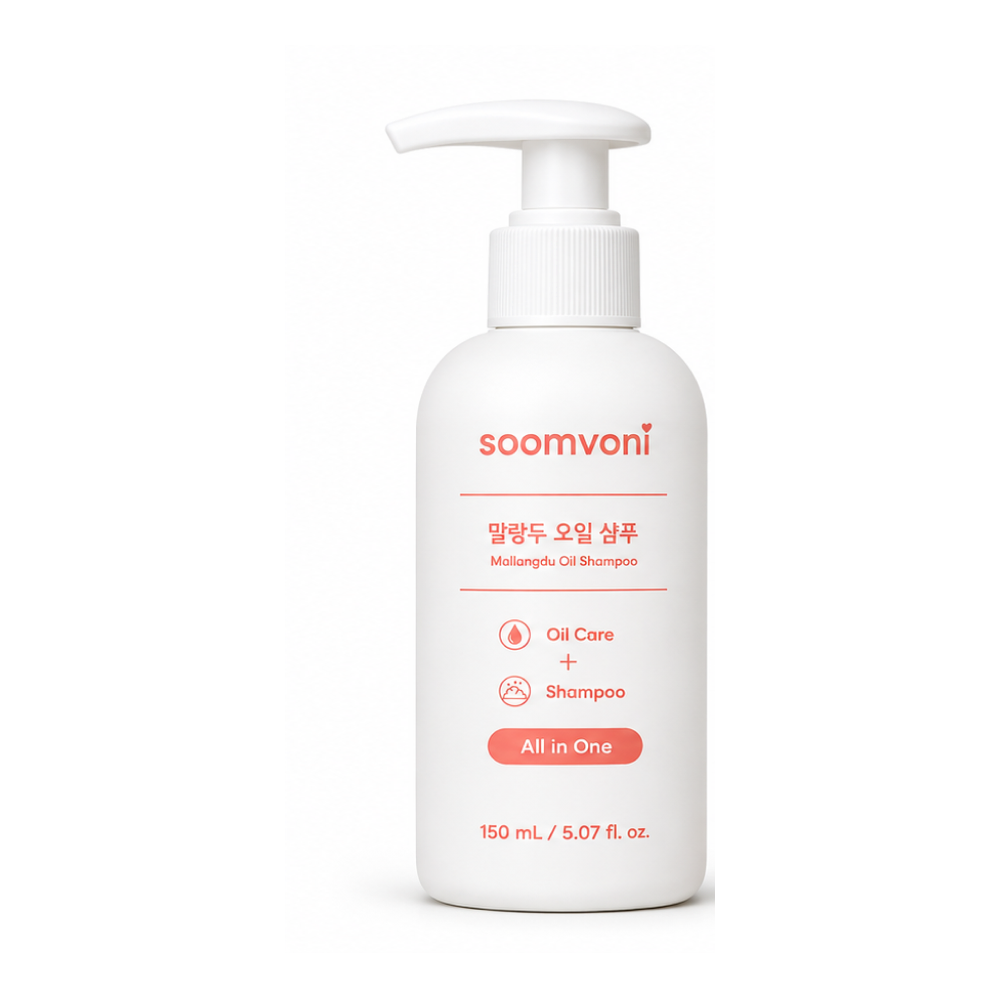
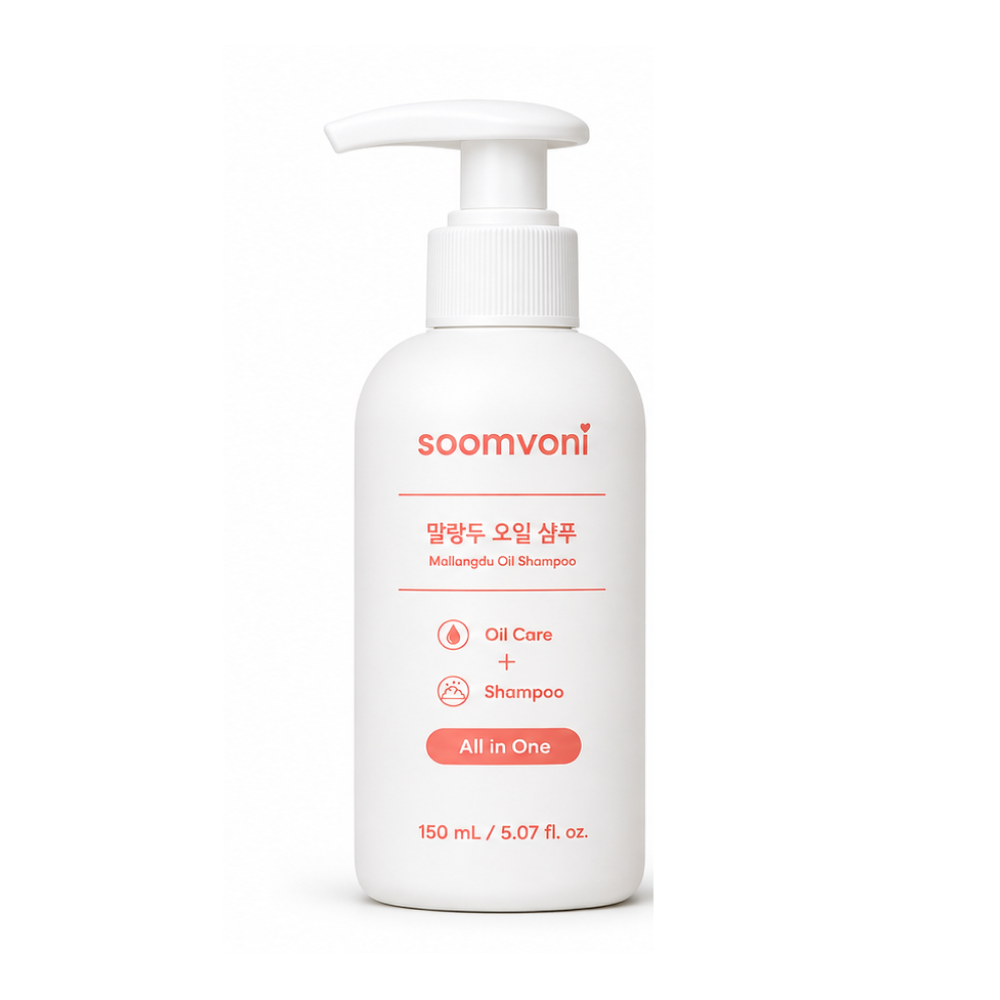
Center representative bottle and match product video widths

diff --git a/resole-lotion-demo/product/soomvoni-mallangdu.html b/resole-lotion-demo/product/soomvoni-mallangdu.html
@@ -22,37 +22,37 @@
 .soomvoni-page .price-line .sale-price{color:#392f29}
 @media(max-width:600px){.thumbnail-grid{grid-template-columns:repeat(2,minmax(0,1fr));gap:12px}.soomvoni-page .detail-tabs{overflow-x:auto;white-space:nowrap}}
 
-.motion-page{position:relative}.ingredient-motion{position:absolute;left:0;top:0;width:100%;height:53.666667%;background:#fcf9f3}.ingredient-motion video{display:block;width:100%;height:100%;object-fit:cover}
+.motion-page{position:relative}.ingredient-motion{position:absolute;left:0;top:0;width:100%;height:53.666667%;background:#fcf9f3;display:flex;align-items:center;padding:0 68px;box-sizing:border-box}.ingredient-motion video{display:block;width:100%;height:auto;aspect-ratio:3/2;object-fit:contain}
 .routine-page{background:#fcf9f3;color:#392f29;padding:65px 68px 50px;line-height:1.6;font-family:'Noto Sans KR',sans-serif}.routine-page .routine-kicker{font-size:17px;letter-spacing:.08em;color:#ed7668;font-weight:700;margin:0 0 45px}.routine-page h2{font-size:48px;line-height:1.5;margin:0 0 38px;letter-spacing:-.04em}.routine-page .routine-intro{font-size:25px;color:#756a62;margin-bottom:55px}.routine-page video{display:block;width:100%;height:auto;aspect-ratio:3/2;background:#fcece5}.routine-steps{display:grid;grid-template-columns:1fr 1fr;gap:40px 25px;margin-top:60px}.routine-steps strong{display:block;font-size:24px;margin-bottom:12px}.routine-steps b{color:#ed7668;font-size:18px;display:block;margin-bottom:10px}.routine-steps p{font-size:21px;line-height:1.8;color:#756a62;margin:0}.routine-note{font-size:17px;color:#756a62;margin-top:55px}.soomvoni-page .detail-tabs{display:flex}.soomvoni-page .detail-tabs a{flex:1;min-width:max-content}
-@media(max-width:600px){.routine-page{padding:40px 24px 30px}.routine-page .routine-kicker{font-size:11px;margin-bottom:24px}.routine-page h2{font-size:26px;margin-bottom:22px}.routine-page .routine-intro{font-size:15px;margin-bottom:30px}.routine-steps{gap:25px 16px;margin-top:30px}.routine-steps strong{font-size:16px;line-height:1.5}.routine-steps b{font-size:13px}.routine-steps p{font-size:13px;line-height:1.8}.routine-note{font-size:12px;margin-top:30px}}
+@media(max-width:600px){.ingredient-motion{padding:0 24px}.routine-page{padding:40px 24px 30px}.routine-page .routine-kicker{font-size:11px;margin-bottom:24px}.routine-page h2{font-size:26px;margin-bottom:22px}.routine-page .routine-intro{font-size:15px;margin-bottom:30px}.routine-steps{gap:25px 16px;margin-top:30px}.routine-steps strong{font-size:16px;line-height:1.5}.routine-steps b{font-size:13px}.routine-steps p{font-size:13px;line-height:1.8}.routine-note{font-size:12px;margin-top:30px}}
 
 </style></head><body class="product-page soomvoni-page">
 <div class="notice-bar">RESOLE DESIGN · PORTFOLIO</div>
 <header class="store-header"><div class="store-shell header-row"><a class="store-logo" href="../">RESOLE</a><nav class="store-nav" aria-label="주요 메뉴"><a href="../#new">NEW</a><a href="../#all">ALL</a><a href="../#about">ABOUT</a></nav></div></header>
 <main><div class="breadcrumb store-shell"><a href="../">HOME</a><span>/</span><span>숨보니 말랑두 오일 샴푸</span></div>
-<section class="product store-shell"><div class="gallery-panel"><div class="gallery-main"><img id="mainImage" src="../assets/soomvoni-mallangdu/shop/t01.png?v=20261126-soomvoni-r4" alt="숨보니 말랑두 오일 샴푸 150 mL" width="1000" height="1000"></div><div class="thumb-strip" id="thumbStrip" aria-label="제품 이미지 선택"><button class="thumb active" type="button" data-image="../assets/soomvoni-mallangdu/shop/t01.png?v=20261126-soomvoni-r4" aria-label="숨보니 썸네일 1 보기"><img src="../assets/soomvoni-mallangdu/shop/t01.png?v=20261126-soomvoni-r4" alt="숨보니 썸네일 1" width="1000" height="1000"></button>
-<button class="thumb " type="button" data-image="../assets/soomvoni-mallangdu/shop/t02.png?v=20261126-soomvoni-r4" aria-label="숨보니 썸네일 2 보기"><img src="../assets/soomvoni-mallangdu/shop/t02.png?v=20261126-soomvoni-r4" alt="숨보니 썸네일 2" width="1000" height="1000"></button>
-<button class="thumb " type="button" data-image="../assets/soomvoni-mallangdu/shop/t03.png?v=20261126-soomvoni-r4" aria-label="숨보니 썸네일 3 보기"><img src="../assets/soomvoni-mallangdu/shop/t03.png?v=20261126-soomvoni-r4" alt="숨보니 썸네일 3" width="1000" height="1000"></button>
-<button class="thumb " type="button" data-image="../assets/soomvoni-mallangdu/shop/t04.png?v=20261126-soomvoni-r4" aria-label="숨보니 썸네일 4 보기"><img src="../assets/soomvoni-mallangdu/shop/t04.png?v=20261126-soomvoni-r4" alt="숨보니 썸네일 4" width="1000" height="1000"></button>
-<button class="thumb " type="button" data-image="../assets/soomvoni-mallangdu/shop/t05.png?v=20261126-soomvoni-r4" aria-label="숨보니 썸네일 5 보기"><img src="../assets/soomvoni-mallangdu/shop/t05.png?v=20261126-soomvoni-r4" alt="숨보니 썸네일 5" width="1000" height="1000"></button>
-<button class="thumb " type="button" data-image="../assets/soomvoni-mallangdu/shop/t06.png?v=20261126-soomvoni-r4" aria-label="숨보니 썸네일 6 보기"><img src="../assets/soomvoni-mallangdu/shop/t06.png?v=20261126-soomvoni-r4" alt="숨보니 썸네일 6" width="1000" height="1000"></button></div></div>
+<section class="product store-shell"><div class="gallery-panel"><div class="gallery-main"><img id="mainImage" src="../assets/soomvoni-mallangdu/shop/t01.png?v=20261126-soomvoni-r5" alt="숨보니 말랑두 오일 샴푸 150 mL" width="1000" height="1000"></div><div class="thumb-strip" id="thumbStrip" aria-label="제품 이미지 선택"><button class="thumb active" type="button" data-image="../assets/soomvoni-mallangdu/shop/t01.png?v=20261126-soomvoni-r5" aria-label="숨보니 썸네일 1 보기"><img src="../assets/soomvoni-mallangdu/shop/t01.png?v=20261126-soomvoni-r5" alt="숨보니 썸네일 1" width="1000" height="1000"></button>
+<button class="thumb " type="button" data-image="../assets/soomvoni-mallangdu/shop/t02.png?v=20261126-soomvoni-r5" aria-label="숨보니 썸네일 2 보기"><img src="../assets/soomvoni-mallangdu/shop/t02.png?v=20261126-soomvoni-r5" alt="숨보니 썸네일 2" width="1000" height="1000"></button>
+<button class="thumb " type="button" data-image="../assets/soomvoni-mallangdu/shop/t03.png?v=20261126-soomvoni-r5" aria-label="숨보니 썸네일 3 보기"><img src="../assets/soomvoni-mallangdu/shop/t03.png?v=20261126-soomvoni-r5" alt="숨보니 썸네일 3" width="1000" height="1000"></button>
+<button class="thumb " type="button" data-image="../assets/soomvoni-mallangdu/shop/t04.png?v=20261126-soomvoni-r5" aria-label="숨보니 썸네일 4 보기"><img src="../assets/soomvoni-mallangdu/shop/t04.png?v=20261126-soomvoni-r5" alt="숨보니 썸네일 4" width="1000" height="1000"></button>
+<button class="thumb " type="button" data-image="../assets/soomvoni-mallangdu/shop/t05.png?v=20261126-soomvoni-r5" aria-label="숨보니 썸네일 5 보기"><img src="../assets/soomvoni-mallangdu/shop/t05.png?v=20261126-soomvoni-r5" alt="숨보니 썸네일 5" width="1000" height="1000"></button>
+<button class="thumb " type="button" data-image="../assets/soomvoni-mallangdu/shop/t06.png?v=20261126-soomvoni-r5" aria-label="숨보니 썸네일 6 보기"><img src="../assets/soomvoni-mallangdu/shop/t06.png?v=20261126-soomvoni-r5" alt="숨보니 썸네일 6" width="1000" height="1000"></button></div></div>
 <aside class="purchase-panel"><p class="eyebrow">soomvoni · MALLANGDU</p><h1>말랑두 오일 샴푸 150 mL</h1><p class="sub-title">오일 케어와 샴푸 세정을 한 병으로.</p><div class="price-box"><div class="price-line"><strong class="sale-price">29,800원</strong></div></div><div class="shipping-info"><strong>배송비</strong><span>별도</span></div><ul class="key-points"><li>오일 케어 + 샴푸 올인원</li><li>신생아·유아 두피 및 모발 세정</li><li>150 mL / 5.07 fl. oz.</li></ul><div class="action-row"><a class="btn btn-light" href="#thumbnails">썸네일 보기</a><a class="btn btn-primary" href="#detail">상세페이지 보기</a></div></aside></section>
 <nav class="detail-tabs store-shell" aria-label="프로젝트 구성"><a class="active" href="#detail">상세페이지</a><a href="#thumbnails">썸네일 6종</a><a href="#routine-video">사용 영상</a><a href="#info">프로젝트 정보</a></nav>
-<section id="detail" class="detail"><div class="detail-stack"><img class="detail-image" src="../assets/soomvoni-mallangdu/detail/p01.png?v=20261126-soomvoni-r4" alt="숨보니 P01 · 오일 케어와 샴푸를 한 병으로" width="850" height="1500" loading="lazy" decoding="async" data-page="P01">
-<img class="detail-image" src="../assets/soomvoni-mallangdu/detail/p02.png?v=20261126-soomvoni-r4" alt="숨보니 P02 · 부모님의 두피 관리 고민" width="850" height="1500" loading="lazy" decoding="async" data-page="P02">
-<img class="detail-image" src="../assets/soomvoni-mallangdu/detail/p03.png?v=20261126-soomvoni-r4" alt="숨보니 P03 · 올인원 솔루션" width="850" height="1500" loading="lazy" decoding="async" data-page="P03">
-<img class="detail-image" src="../assets/soomvoni-mallangdu/detail/p04.png?v=20261126-soomvoni-r4" alt="숨보니 P04 · 말랑두를 선택하는 다섯 가지 기준" width="850" height="1500" loading="lazy" decoding="async" data-page="P04">
-<img class="detail-image" src="../assets/soomvoni-mallangdu/detail/p05.png?v=20261126-soomvoni-r4" alt="숨보니 P05 · 두피 저자극 테스트 결과" width="850" height="1500" loading="lazy" decoding="async" data-page="P05">
-<div class="motion-page" data-page="P06"><img class="detail-image" src="../assets/soomvoni-mallangdu/detail/p06.png?v=20261126-soomvoni-r4" alt="숨보니 P06 · 코코넛 유래 세정 성분" width="850" height="1500" loading="lazy" decoding="async"><div class="ingredient-motion"><video id="ingredient-video" autoplay loop muted playsinline controls preload="metadata" poster="../assets/soomvoni-mallangdu/video/01_ingredient_film_poster.jpg" aria-label="코코넛 유래 세정 성분 및 펌핑 AI 연출 영상"><source src="../assets/soomvoni-mallangdu/video/01_ingredient_film.mp4?v=20261126-soomvoni-r4" type="video/mp4"></video></div></div>
-<img class="detail-image" src="../assets/soomvoni-mallangdu/detail/p07.png?v=20261126-soomvoni-r4" alt="숨보니 P07 · 티트리잎수·판테놀·녹차추출물" width="850" height="1500" loading="lazy" decoding="async" data-page="P07">
-<img class="detail-image" src="../assets/soomvoni-mallangdu/detail/p08.png?v=20261126-soomvoni-r4" alt="숨보니 P08 · 슬로우 제조기법" width="850" height="1500" loading="lazy" decoding="async" data-page="P08">
-<section class="routine-page" data-page="P09" id="routine-video"><p class="routine-kicker">HOW TO USE</p><h2>따로 불리는 준비 없이,<br>샴푸하는 순서 그대로.</h2><p class="routine-intro">오일 케어와 세정을 하나의 루틴으로.</p><video autoplay loop muted playsinline controls preload="metadata" poster="../assets/soomvoni-mallangdu/video/02_routine_film_poster.jpg" aria-label="펌핑 마사지 목욕 의자와 샴푸캡으로 헹구기 AI 연출 사용 과정"><source src="../assets/soomvoni-mallangdu/video/02_routine_film.mp4?v=20261126-soomvoni-r4" type="video/mp4"></video><div class="routine-steps"><div><b>01</b><strong>충분히 적셔주세요</strong><p>미온수로 두피와 모발을<br>충분히 적셔주세요.</p></div><div><b>02</b><strong>적당량을 덜어주세요</strong><p>샴푸를 적당량 덜어<br>두피와 모발에 발라주세요.</p></div><div><b>03</b><strong>부드럽게 마사지</strong><p>손끝으로 부드럽게 문질러<br>거품을 내주세요.</p></div><div><b>04</b><strong>깨끗하게 헹궈주세요</strong><p>미온수로 거품이 남지 않게<br>충분히 헹궈주세요.</p></div></div><p class="routine-note">두피 각질을 손이나 손톱으로 억지로 떼어내지 마세요.<br>AI 연출 영상으로 실제 제형·거품량·사용 결과와 다를 수 있습니다.</p></section>
-<img class="detail-image" src="../assets/soomvoni-mallangdu/detail/p10.png?v=20261126-soomvoni-r4" alt="숨보니 P10 · 제품 정보·전성분·사용 시 주의사항" width="850" height="3000" loading="lazy" decoding="async" data-page="P10"></div></section>
-<section id="thumbnails" class="info-section store-shell"><h2>썸네일 디자인</h2><div class="thumbnail-grid"><figure><a href="../assets/soomvoni-mallangdu/shop/t01.png?v=20261126-soomvoni-r4" target="_blank" rel="noopener"><img src="../assets/soomvoni-mallangdu/shop/t01.png?v=20261126-soomvoni-r4" alt="숨보니 이미지형 썸네일 1" width="1000" height="1000" loading="lazy"></a><figcaption>01 · 이미지형</figcaption></figure>
-<figure><a href="../assets/soomvoni-mallangdu/shop/t02.png?v=20261126-soomvoni-r4" target="_blank" rel="noopener"><img src="../assets/soomvoni-mallangdu/shop/t02.png?v=20261126-soomvoni-r4" alt="숨보니 이미지형 썸네일 2" width="1000" height="1000" loading="lazy"></a><figcaption>02 · 이미지형</figcaption></figure>
-<figure><a href="../assets/soomvoni-mallangdu/shop/t03.png?v=20261126-soomvoni-r4" target="_blank" rel="noopener"><img src="../assets/soomvoni-mallangdu/shop/t03.png?v=20261126-soomvoni-r4" alt="숨보니 이미지형 썸네일 3" width="1000" height="1000" loading="lazy"></a><figcaption>03 · 이미지형</figcaption></figure>
-<figure><a href="../assets/soomvoni-mallangdu/shop/t04.png?v=20261126-soomvoni-r4" target="_blank" rel="noopener"><img src="../assets/soomvoni-mallangdu/shop/t04.png?v=20261126-soomvoni-r4" alt="숨보니 카피형 썸네일 4" width="1000" height="1000" loading="lazy"></a><figcaption>04 · 카피형</figcaption></figure>
-<figure><a href="../assets/soomvoni-mallangdu/shop/t05.png?v=20261126-soomvoni-r4" target="_blank" rel="noopener"><img src="../assets/soomvoni-mallangdu/shop/t05.png?v=20261126-soomvoni-r4" alt="숨보니 카피형 썸네일 5" width="1000" height="1000" loading="lazy"></a><figcaption>05 · 카피형</figcaption></figure>
-<figure><a href="../assets/soomvoni-mallangdu/shop/t06.png?v=20261126-soomvoni-r4" target="_blank" rel="noopener"><img src="../assets/soomvoni-mallangdu/shop/t06.png?v=20261126-soomvoni-r4" alt="숨보니 카피형 썸네일 6" width="1000" height="1000" loading="lazy"></a><figcaption>06 · 카피형</figcaption></figure></div></section>
+<section id="detail" class="detail"><div class="detail-stack"><img class="detail-image" src="../assets/soomvoni-mallangdu/detail/p01.png?v=20261126-soomvoni-r5" alt="숨보니 P01 · 오일 케어와 샴푸를 한 병으로" width="850" height="1500" loading="lazy" decoding="async" data-page="P01">
+<img class="detail-image" src="../assets/soomvoni-mallangdu/detail/p02.png?v=20261126-soomvoni-r5" alt="숨보니 P02 · 부모님의 두피 관리 고민" width="850" height="1500" loading="lazy" decoding="async" data-page="P02">
+<img class="detail-image" src="../assets/soomvoni-mallangdu/detail/p03.png?v=20261126-soomvoni-r5" alt="숨보니 P03 · 올인원 솔루션" width="850" height="1500" loading="lazy" decoding="async" data-page="P03">
+<img class="detail-image" src="../assets/soomvoni-mallangdu/detail/p04.png?v=20261126-soomvoni-r5" alt="숨보니 P04 · 말랑두를 선택하는 다섯 가지 기준" width="850" height="1500" loading="lazy" decoding="async" data-page="P04">
+<img class="detail-image" src="../assets/soomvoni-mallangdu/detail/p05.png?v=20261126-soomvoni-r5" alt="숨보니 P05 · 두피 저자극 테스트 결과" width="850" height="1500" loading="lazy" decoding="async" data-page="P05">
+<div class="motion-page" data-page="P06"><img class="detail-image" src="../assets/soomvoni-mallangdu/detail/p06.png?v=20261126-soomvoni-r5" alt="숨보니 P06 · 코코넛 유래 세정 성분" width="850" height="1500" loading="lazy" decoding="async"><div class="ingredient-motion"><video id="ingredient-video" autoplay loop muted playsinline controls preload="metadata" poster="../assets/soomvoni-mallangdu/video/01_ingredient_film_poster.jpg" aria-label="코코넛 유래 세정 성분 및 펌핑 AI 연출 영상"><source src="../assets/soomvoni-mallangdu/video/01_ingredient_film.mp4?v=20261126-soomvoni-r5" type="video/mp4"></video></div></div>
+<img class="detail-image" src="../assets/soomvoni-mallangdu/detail/p07.png?v=20261126-soomvoni-r5" alt="숨보니 P07 · 티트리잎수·판테놀·녹차추출물" width="850" height="1500" loading="lazy" decoding="async" data-page="P07">
+<img class="detail-image" src="../assets/soomvoni-mallangdu/detail/p08.png?v=20261126-soomvoni-r5" alt="숨보니 P08 · 슬로우 제조기법" width="850" height="1500" loading="lazy" decoding="async" data-page="P08">
+<section class="routine-page" data-page="P09" id="routine-video"><p class="routine-kicker">HOW TO USE</p><h2>따로 불리는 준비 없이,<br>샴푸하는 순서 그대로.</h2><p class="routine-intro">오일 케어와 세정을 하나의 루틴으로.</p><video autoplay loop muted playsinline controls preload="metadata" poster="../assets/soomvoni-mallangdu/video/02_routine_film_poster.jpg" aria-label="펌핑 마사지 목욕 의자와 샴푸캡으로 헹구기 AI 연출 사용 과정"><source src="../assets/soomvoni-mallangdu/video/02_routine_film.mp4?v=20261126-soomvoni-r5" type="video/mp4"></video><div class="routine-steps"><div><b>01</b><strong>충분히 적셔주세요</strong><p>미온수로 두피와 모발을<br>충분히 적셔주세요.</p></div><div><b>02</b><strong>적당량을 덜어주세요</strong><p>샴푸를 적당량 덜어<br>두피와 모발에 발라주세요.</p></div><div><b>03</b><strong>부드럽게 마사지</strong><p>손끝으로 부드럽게 문질러<br>거품을 내주세요.</p></div><div><b>04</b><strong>깨끗하게 헹궈주세요</strong><p>미온수로 거품이 남지 않게<br>충분히 헹궈주세요.</p></div></div><p class="routine-note">두피 각질을 손이나 손톱으로 억지로 떼어내지 마세요.<br>AI 연출 영상으로 실제 제형·거품량·사용 결과와 다를 수 있습니다.</p></section>
+<img class="detail-image" src="../assets/soomvoni-mallangdu/detail/p10.png?v=20261126-soomvoni-r5" alt="숨보니 P10 · 제품 정보·전성분·사용 시 주의사항" width="850" height="3000" loading="lazy" decoding="async" data-page="P10"></div></section>
+<section id="thumbnails" class="info-section store-shell"><h2>썸네일 디자인</h2><div class="thumbnail-grid"><figure><a href="../assets/soomvoni-mallangdu/shop/t01.png?v=20261126-soomvoni-r5" target="_blank" rel="noopener"><img src="../assets/soomvoni-mallangdu/shop/t01.png?v=20261126-soomvoni-r5" alt="숨보니 이미지형 썸네일 1" width="1000" height="1000" loading="lazy"></a><figcaption>01 · 이미지형</figcaption></figure>
+<figure><a href="../assets/soomvoni-mallangdu/shop/t02.png?v=20261126-soomvoni-r5" target="_blank" rel="noopener"><img src="../assets/soomvoni-mallangdu/shop/t02.png?v=20261126-soomvoni-r5" alt="숨보니 이미지형 썸네일 2" width="1000" height="1000" loading="lazy"></a><figcaption>02 · 이미지형</figcaption></figure>
+<figure><a href="../assets/soomvoni-mallangdu/shop/t03.png?v=20261126-soomvoni-r5" target="_blank" rel="noopener"><img src="../assets/soomvoni-mallangdu/shop/t03.png?v=20261126-soomvoni-r5" alt="숨보니 이미지형 썸네일 3" width="1000" height="1000" loading="lazy"></a><figcaption>03 · 이미지형</figcaption></figure>
+<figure><a href="../assets/soomvoni-mallangdu/shop/t04.png?v=20261126-soomvoni-r5" target="_blank" rel="noopener"><img src="../assets/soomvoni-mallangdu/shop/t04.png?v=20261126-soomvoni-r5" alt="숨보니 카피형 썸네일 4" width="1000" height="1000" loading="lazy"></a><figcaption>04 · 카피형</figcaption></figure>
+<figure><a href="../assets/soomvoni-mallangdu/shop/t05.png?v=20261126-soomvoni-r5" target="_blank" rel="noopener"><img src="../assets/soomvoni-mallangdu/shop/t05.png?v=20261126-soomvoni-r5" alt="숨보니 카피형 썸네일 5" width="1000" height="1000" loading="lazy"></a><figcaption>05 · 카피형</figcaption></figure>
+<figure><a href="../assets/soomvoni-mallangdu/shop/t06.png?v=20261126-soomvoni-r5" target="_blank" rel="noopener"><img src="../assets/soomvoni-mallangdu/shop/t06.png?v=20261126-soomvoni-r5" alt="숨보니 카피형 썸네일 6" width="1000" height="1000" loading="lazy"></a><figcaption>06 · 카피형</figcaption></figure></div></section>
 <section id="info" class="info-section store-shell detail-narrow"><h2>프로젝트 정보</h2><div class="info-grid"><div><span>브랜드</span><strong>숨보니 · soomvoni</strong></div><div><span>제품명</span><strong>말랑두 오일 샴푸</strong></div><div><span>제작 범위</span><strong>상세페이지 10P · 영상 2종 · 썸네일 6종</strong></div></div><p>영상이 포함된 상세페이지 1차 시안이며 실제 결제는 제공되지 않습니다.</p></section>
 </main><footer class="store-footer"><div class="store-shell"><strong>RESOLE DESIGN</strong><p>Cosmetics · Package · Detail Page Design</p></div></footer></body></html>

diff --git a/resole-lotion-demo/index.html b/resole-lotion-demo/index.html
@@ -53,7 +53,7 @@
     <section id="new" class="store-section store-shell">
       <div class="store-section-head"><div><p class="section-kicker">NEW ARRIVAL</p><h2>새롭게 만나는 RESOLE</h2></div><a href="#all">전체보기 <span>→</span></a></div>
       <div class="product-rail" aria-label="신상품 목록">
-<article class="product-card"><a href="product/soomvoni-mallangdu.html?v=20261126-soomvoni-r4" class="product-image-wrap"><span class="card-badge mist">NEW</span><img src="assets/soomvoni-mallangdu/shop/t01.png?v=20261126-soomvoni-r4" alt="숨보니 말랑두 오일 샴푸 150 mL"></a><div class="product-card-body"><p class="product-brand">soomvoni</p><a href="product/soomvoni-mallangdu.html?v=20261126-soomvoni-r4" class="product-name">말랑두 오일 샴푸 150 mL</a><div class="product-price"><strong>29,800원</strong></div><p class="product-meta">오일 케어와 샴푸를 한 병으로</p></div></article>
+<article class="product-card"><a href="product/soomvoni-mallangdu.html?v=20261126-soomvoni-r5" class="product-image-wrap"><span class="card-badge mist">NEW</span><img src="assets/soomvoni-mallangdu/shop/t01.png?v=20261126-soomvoni-r5" alt="숨보니 말랑두 오일 샴푸 150 mL"></a><div class="product-card-body"><p class="product-brand">soomvoni</p><a href="product/soomvoni-mallangdu.html?v=20261126-soomvoni-r5" class="product-name">말랑두 오일 샴푸 150 mL</a><div class="product-price"><strong>29,800원</strong></div><p class="product-meta">오일 케어와 샴푸를 한 병으로</p></div></article>
         <article class="product-card">
           <a href="product/ecrive-barrier-lotion.html?v=20261022-r2" class="product-image-wrap"><span class="card-badge mist">NEW</span><img src="assets/ecrive-barrier-lotion/shop/01-copy-launch.jpg?v=20260928-r1" alt="ECRIVE 베리어 로션 300 mL" /></a>
           <div class="product-card-body"><p class="product-brand">ECRIVE</p><a href="product/ecrive-barrier-lotion.html?v=20261022-r2" class="product-name">베리어 로션 300 mL</a><div class="product-price"><strong>34,900원</strong><del>39,000원</del></div><p class="product-meta">바르고 또 발라도, 반복되는 건조함을 위한 보습</p></div>
@@ -87,7 +87,7 @@
     <section id="all" class="store-section store-shell compact-bottom">
       <div class="store-section-head"><div><p class="section-kicker">ALL PRODUCTS</p><h2>전체 상품</h2></div></div>
       <div class="all-product-grid">
-<article class="product-card"><a href="product/soomvoni-mallangdu.html?v=20261126-soomvoni-r4" class="product-image-wrap"><span class="card-badge mist">NEW</span><img src="assets/soomvoni-mallangdu/shop/t01.png?v=20261126-soomvoni-r4" alt="숨보니 말랑두 오일 샴푸 150 mL"></a><div class="product-card-body"><p class="product-brand">soomvoni</p><a href="product/soomvoni-mallangdu.html?v=20261126-soomvoni-r4" class="product-name">말랑두 오일 샴푸 150 mL</a><div class="product-price"><strong>29,800원</strong></div><p class="product-meta">오일 케어와 샴푸를 한 병으로</p></div></article>
+<article class="product-card"><a href="product/soomvoni-mallangdu.html?v=20261126-soomvoni-r5" class="product-image-wrap"><span class="card-badge mist">NEW</span><img src="assets/soomvoni-mallangdu/shop/t01.png?v=20261126-soomvoni-r5" alt="숨보니 말랑두 오일 샴푸 150 mL"></a><div class="product-card-body"><p class="product-brand">soomvoni</p><a href="product/soomvoni-mallangdu.html?v=20261126-soomvoni-r5" class="product-name">말랑두 오일 샴푸 150 mL</a><div class="product-price"><strong>29,800원</strong></div><p class="product-meta">오일 케어와 샴푸를 한 병으로</p></div></article>
         <article class="product-card"><a href="product/ecrive-barrier-lotion.html?v=20261022-r2" class="product-image-wrap"><img src="assets/ecrive-barrier-lotion/shop/06-image-main.jpg?v=20260928-r1" alt="ECRIVE 베리어 로션 300 mL" /></a><div class="product-card-body"><p class="product-brand">ECRIVE</p><a href="product/ecrive-barrier-lotion.html?v=20261022-r2" class="product-name">베리어 로션 300 mL</a><div class="product-price"><strong>34,900원</strong><del>39,000원</del></div></div></article>
         <article class="product-card"><a href="product/goyobam.html?v=20260908-r10" class="product-image-wrap"><img src="assets/goyobam/shop/thumb06.png?v=20260827-r1" alt="ROOTEDIT GOYOBAM 고요밤 150 ml" /></a><div class="product-card-body"><p class="product-brand">ROOTEDIT</p><a href="product/goyobam.html?v=20260908-r10" class="product-name">GOYOBAM 고요밤 150 ml</a><div class="product-availability"><strong>PORTFOLIO</strong><span>상세 보기</span></div></div></article>
         <article class="product-card"><a href="product/cream-mist.html" class="product-image-wrap"><img src="assets/cream-mist/shop/thumb05.jpg" alt="RESOLE 크림 미스트 80 mL" /></a><div class="product-card-body"><p class="product-brand">RESOLE</p><a href="product/cream-mist.html" class="product-name">크림 미스트 80 mL</a><div class="product-price"><strong>23,000원</strong><span>30%</span></div></div></article>

diff --git a/index.html b/index.html
@@ -994,7 +994,7 @@
   <div class="product-grid">
 
     <!-- Product 1 -->
-    <a href="product-sumboni.html" class="product-card" style="display:block;"><div class="product-img"><img src="resole-lotion-demo/assets/soomvoni-mallangdu/shop/t01.png?v=20261126-soomvoni-r4" alt="숨보니 말랑두 오일 샴푸 150 mL" style="width:100%;height:100%;object-fit:contain"></div><div class="product-info"><div class="product-brand">soomvoni</div><div class="product-name">말랑두 오일 샴푸 150 mL</div><div class="product-tags"><span class="product-tag">올인원 오일 샴푸</span><span class="product-tag">두피 케어</span></div><div class="product-price"><span>29,800원</span></div></div></a>
+    <a href="product-sumboni.html" class="product-card" style="display:block;"><div class="product-img"><img src="resole-lotion-demo/assets/soomvoni-mallangdu/shop/t01.png?v=20261126-soomvoni-r5" alt="숨보니 말랑두 오일 샴푸 150 mL" style="width:100%;height:100%;object-fit:contain"></div><div class="product-info"><div class="product-brand">soomvoni</div><div class="product-name">말랑두 오일 샴푸 150 mL</div><div class="product-tags"><span class="product-tag">올인원 오일 샴푸</span><span class="product-tag">두피 케어</span></div><div class="product-price"><span>29,800원</span></div></div></a>
 
     <!-- Product 2 -->
     <a href="product-pernu.html" class="product-card" style="display:block;">

diff --git a/product-sumboni.html b/product-sumboni.html
@@ -1,1 +1,1 @@
-<!doctype html><html lang="ko"><meta charset="utf-8"><meta name="viewport" content="width=device-width, initial-scale=1"><title>숨보니 말랑두 오일 샴푸</title><meta http-equiv="refresh" content="0;url=resole-lotion-demo/product/soomvoni-mallangdu.html?v=20261126-soomvoni-r4"><link rel="canonical" href="https://mee5180-hue.github.io/resoledesign/resole-lotion-demo/product/soomvoni-mallangdu.html"><a href="resole-lotion-demo/product/soomvoni-mallangdu.html?v=20261126-soomvoni-r4">숨보니 상세페이지 보기</a></html>
+<!doctype html><html lang="ko"><meta charset="utf-8"><meta name="viewport" content="width=device-width, initial-scale=1"><title>숨보니 말랑두 오일 샴푸</title><meta http-equiv="refresh" content="0;url=resole-lotion-demo/product/soomvoni-mallangdu.html?v=20261126-soomvoni-r5"><link rel="canonical" href="https://mee5180-hue.github.io/resoledesign/resole-lotion-demo/product/soomvoni-mallangdu.html"><a href="resole-lotion-demo/product/soomvoni-mallangdu.html?v=20261126-soomvoni-r5">숨보니 상세페이지 보기</a></html>
